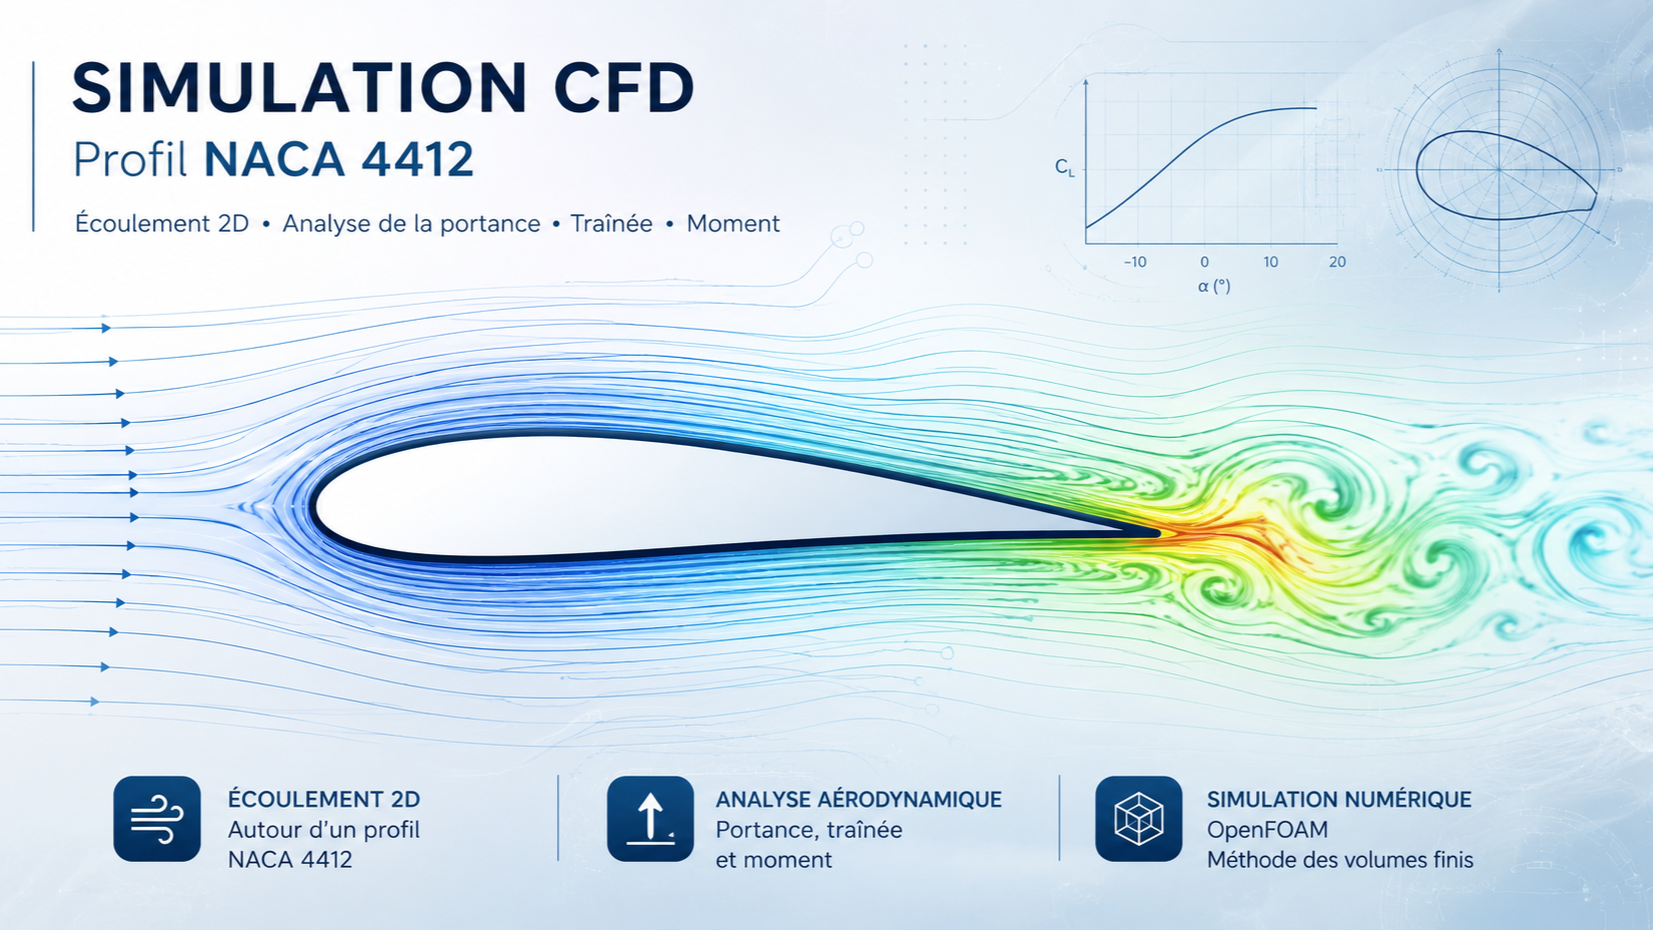
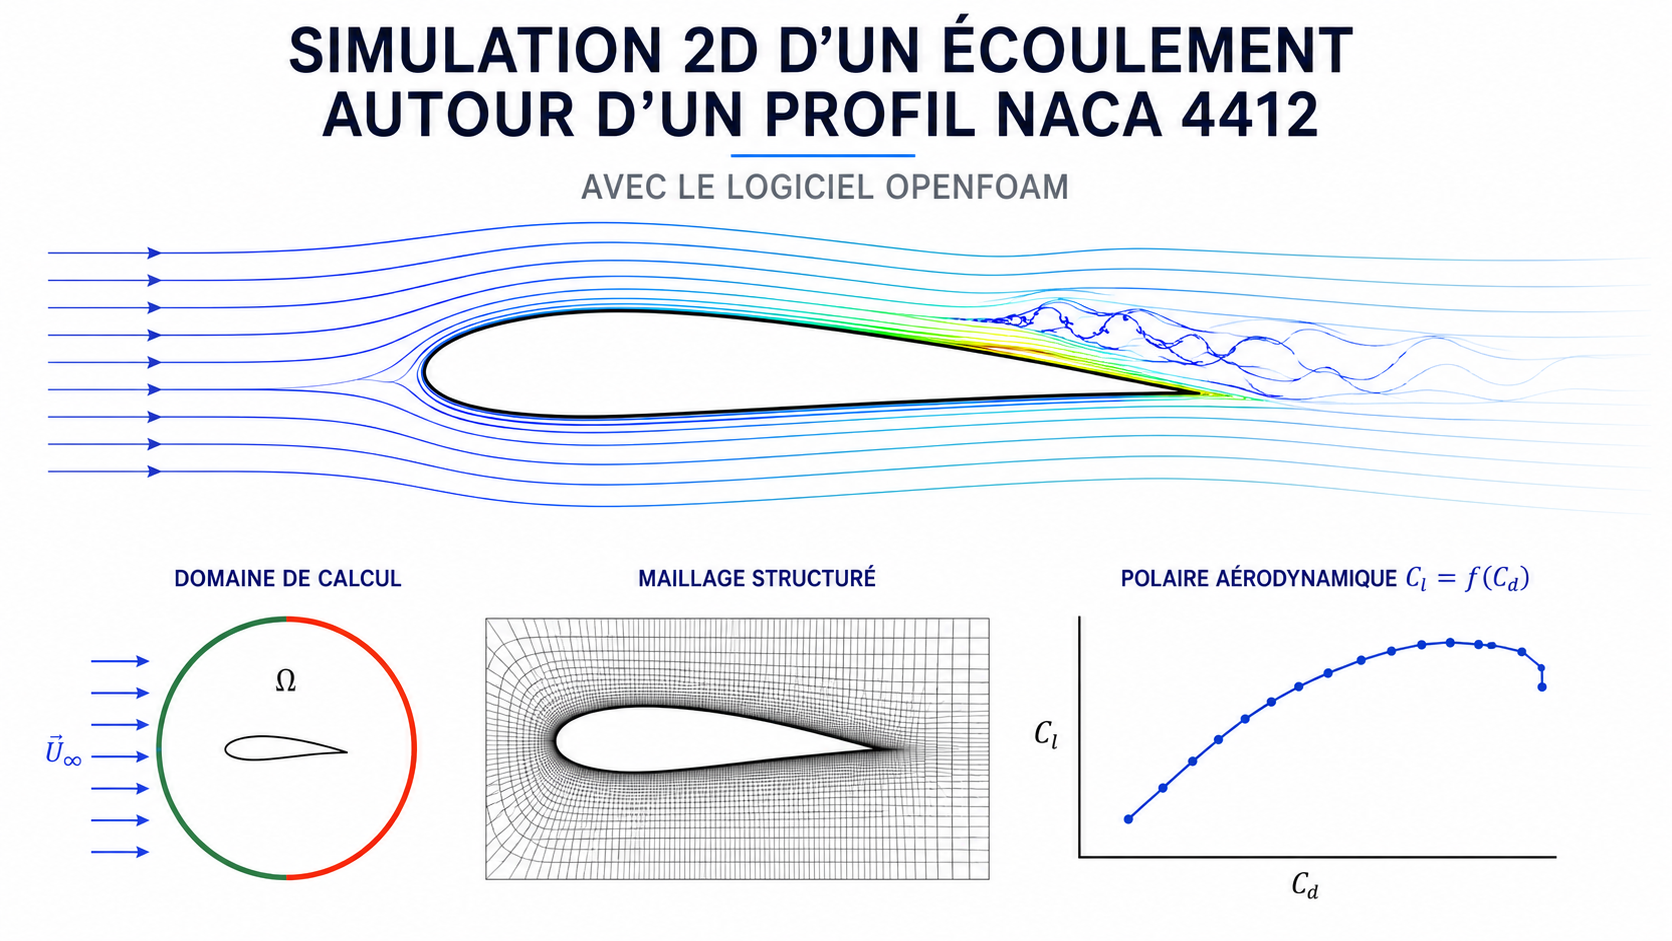
Met à jour l’image du projet NACA 4412

diff --git a/script.js b/script.js
@@ -174,7 +174,7 @@ if (timelineElement) {
       id: 'report-naca', type: 'event', category: 'seatech', start: '2026-04-29',
       label: 'NACA 4412', dateLabel: '29 avril 2026', title: 'Simulation CFD d’un profil NACA 4412',
       description: 'Modélisation turbulente RANS, analyse des coefficients aérodynamiques et étude de convergence de maillage.',
-      badges: ['OpenFOAM', 'CFD', 'Aérodynamique'], image: 'assets/images/project-naca4412.png',
+      badges: ['OpenFOAM', 'CFD', 'Aérodynamique'], image: 'assets/images/project-naca4412.png?v=2',
       link: '#project-naca4412', compact: true, report: true, directLink: true, lane: 147
     },
     {

diff --git a/index.html b/index.html
@@ -146,7 +146,7 @@
 
               <article class="project-card" id="project-naca4412" style="order: 2">
                 <div class="project-image">
-                  <img src="assets/images/project-naca4412.png" alt="Simulation profil NACA 4412" />
+                  <img src="assets/images/project-naca4412.png?v=2" alt="Simulation profil NACA 4412" />
                 </div>
                 <h4>Simulation d'un écoulement 2D autour d'un profil NACA 4412</h4>
                 <p class="project-meta">Thomas DE GUZMAN, Julie PELLETIER</p>
